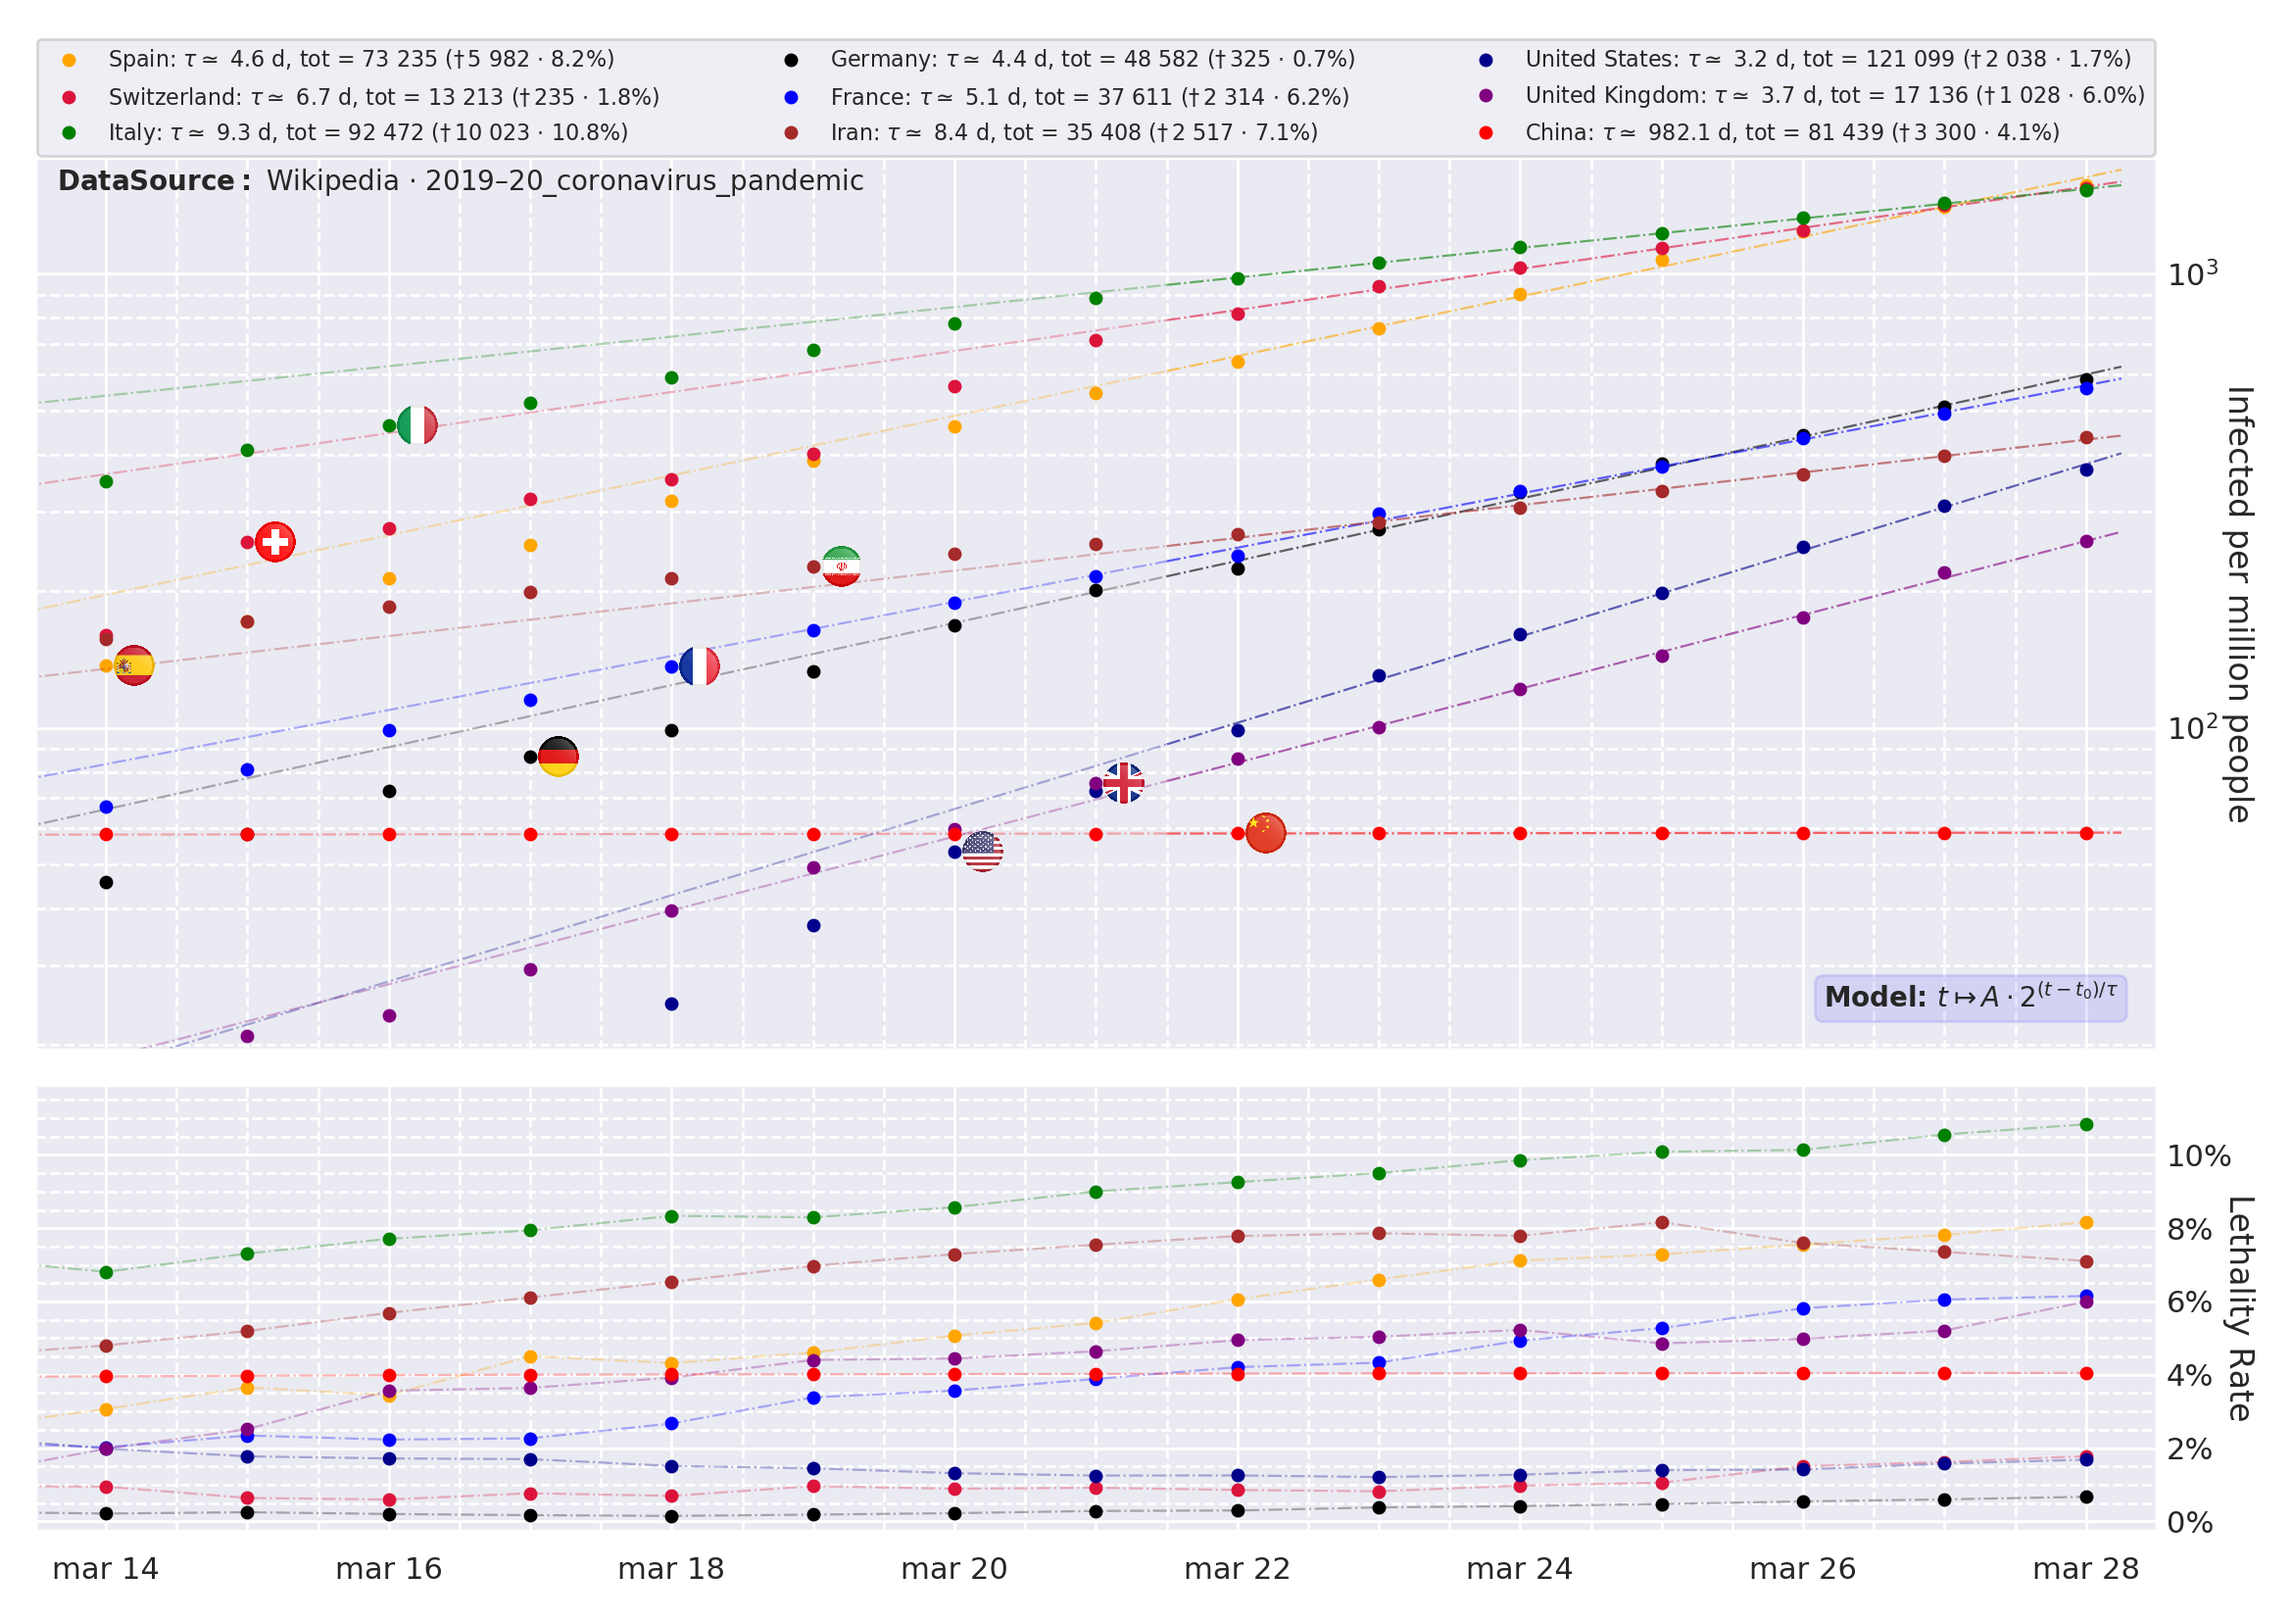
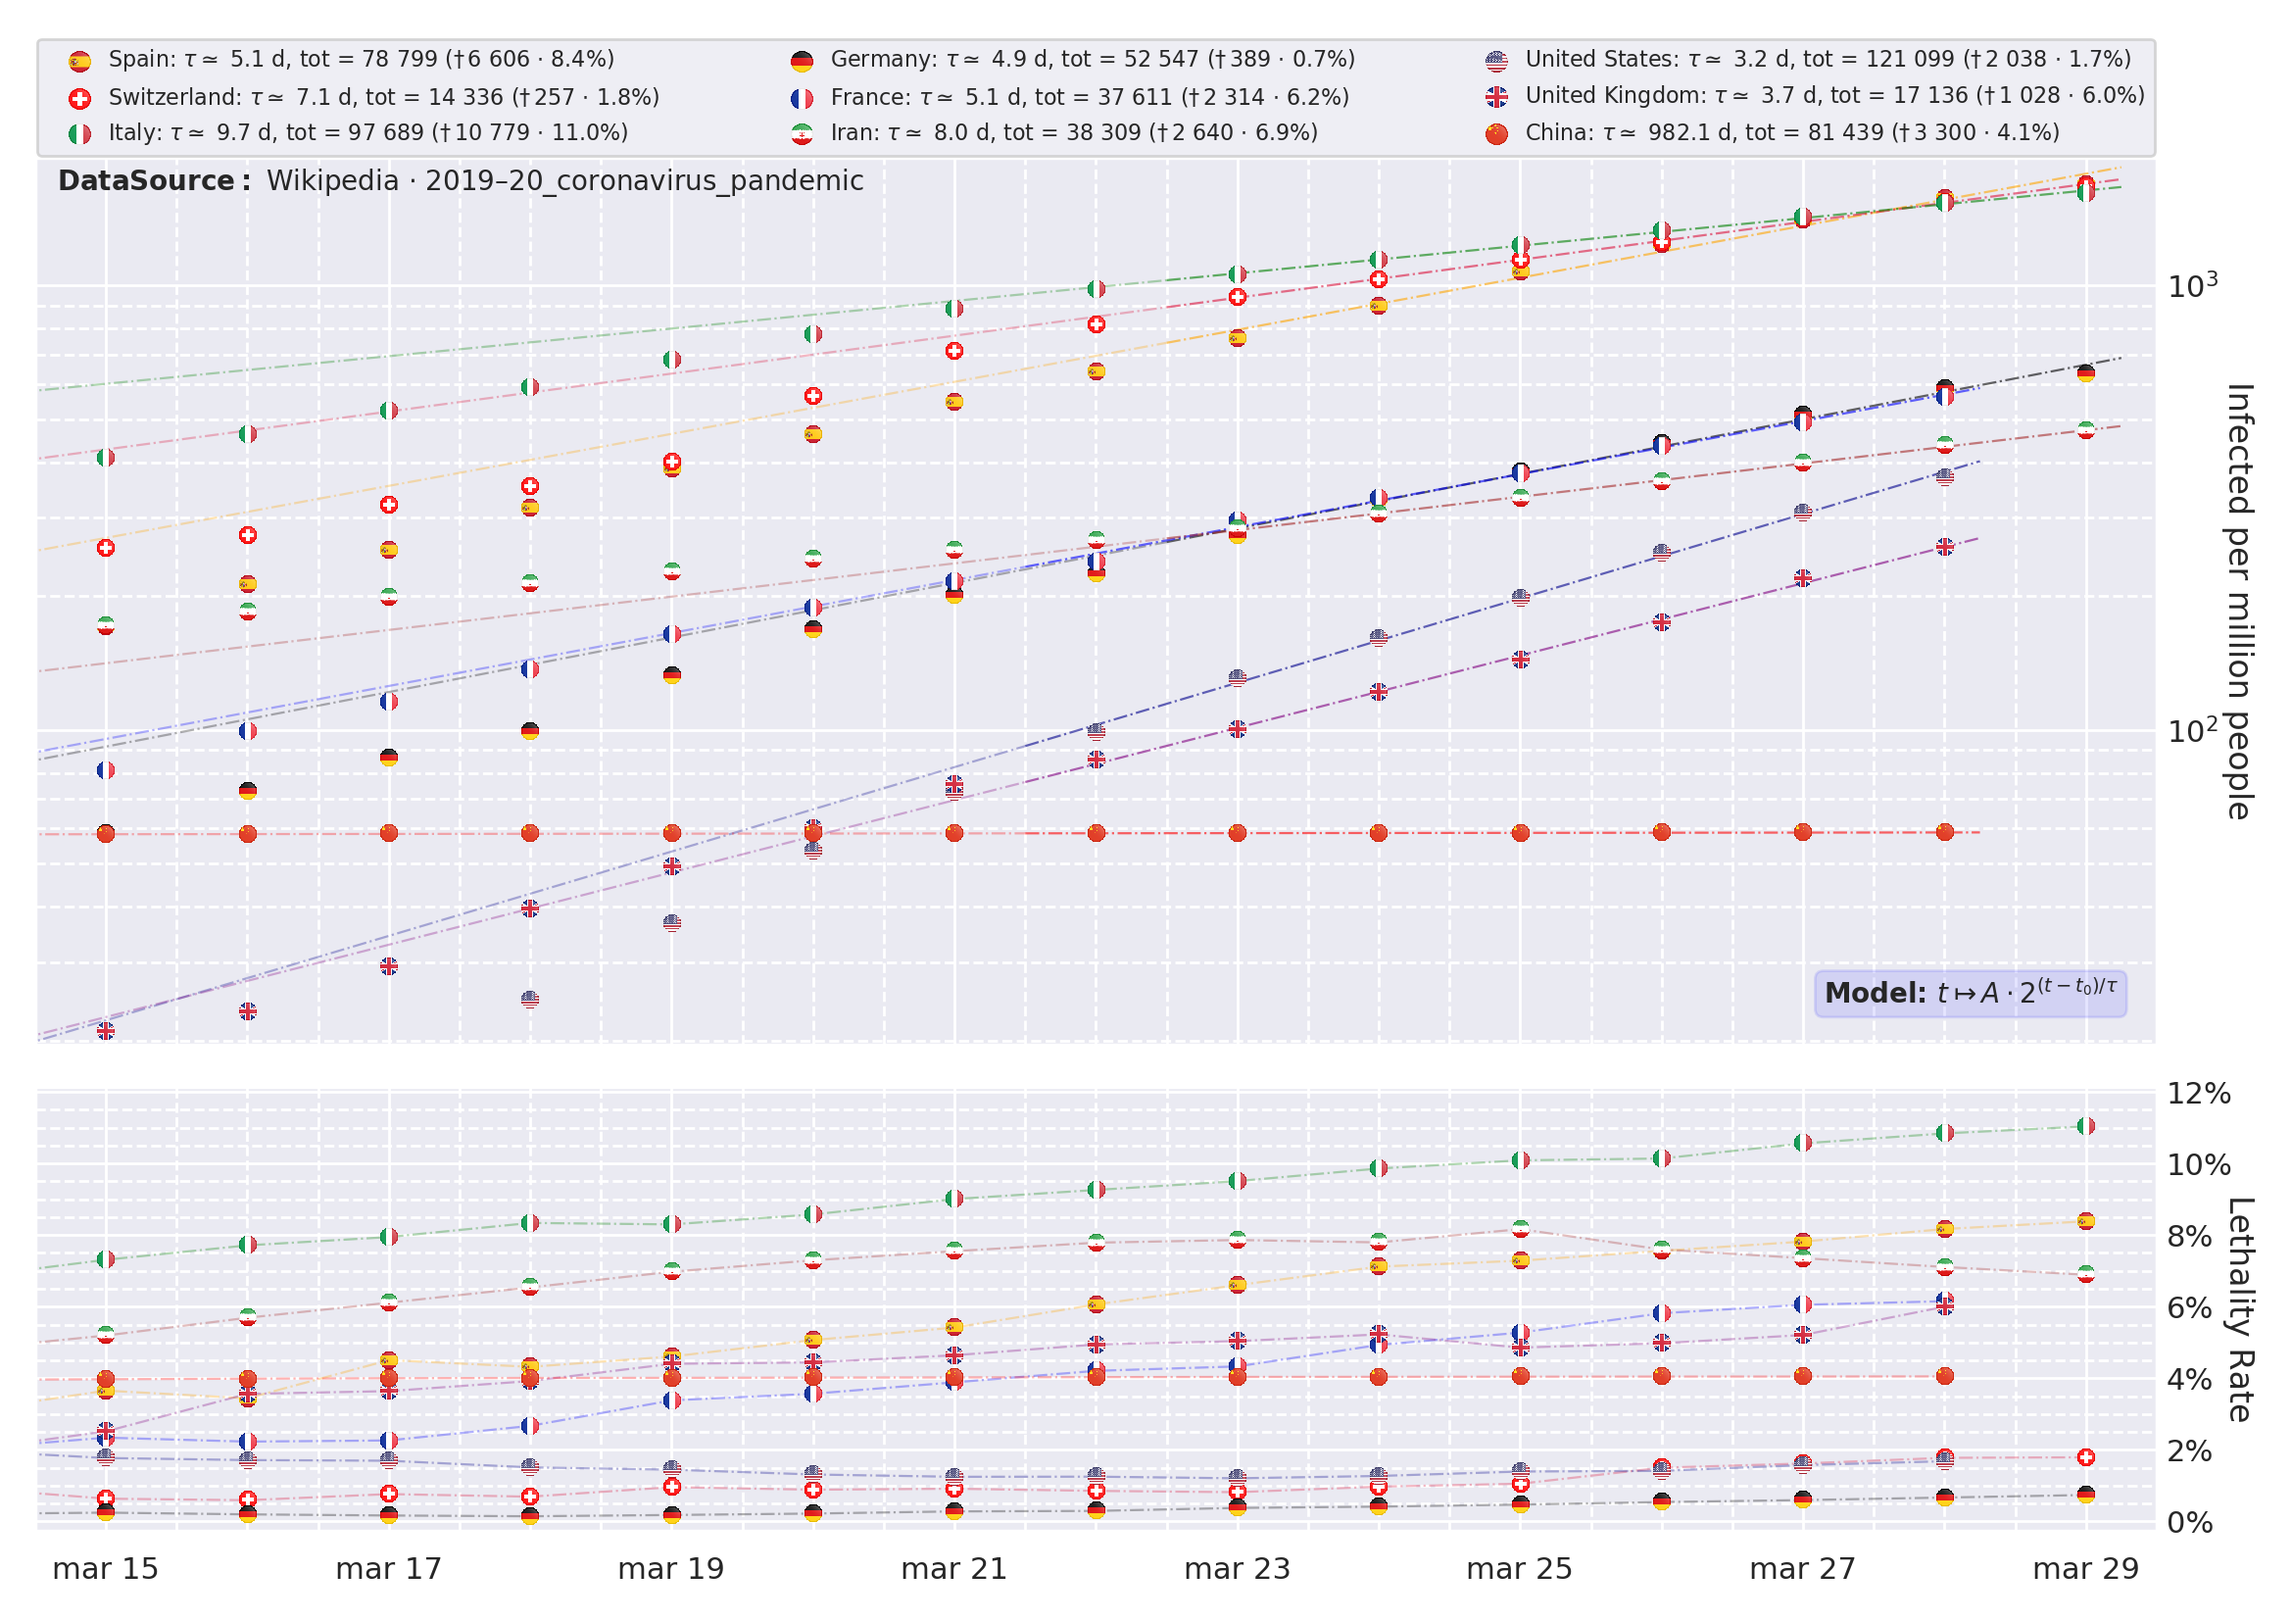
minor commit

diff --git a/Coronavirus/coronavirus.py b/Coronavirus/coronavirus.py
@@ -12,7 +12,8 @@ from corona_libs import *
 sns.set()
 register_matplotlib_converters()
 
-flags = True
+# Flags has 3 modes: 0 no flags, 1 representative flags, 2 flags markers
+flags = 2
 
 country_ds = pd.DataFrame(
     columns=["name", "population", "filename", "flagname", "date_format",
@@ -71,6 +72,9 @@ f.subplots_adjust(hspace=0)
 
 model = LinearRegression(fit_intercept=True)
 init_time = 0
+plots = []
+handlers = {}
+labels = []
 for idx, name in enumerate(country_ds.index):
     kwargs = {"delimiter": ";", "index_col": "data", "parse_dates": True}
     if country_ds["date_format"].loc[name] is not None:
@@ -98,22 +102,33 @@ for idx, name in enumerate(country_ds.index):
         spacing(country_ds["tot_death"].loc[name]),
         country_ds["lethality"].loc[name]
     )
+    labels.append(label)
 
-    ax1.plot(df.index, df["density"].values, ".",
-             color=country_ds["color"].loc[name], label=label, markersize=8)
+    plot = ax1.plot(df.index, df["density"].values, ".", markersize=8,
+                    color=country_ds["color"].loc[name], label=label)
     ax1.plot(d1, 2**(model.predict(t1[:, np.newaxis])), "-.", alpha=0.6,
              color=country_ds["color"].loc[name], linewidth=0.8)
     ax1.plot(d2, 2**(model.predict(t2[:, np.newaxis])), "-.", alpha=0.3,
              color=country_ds["color"].loc[name], linewidth=0.8)
 
     flagname = country_ds["flagname"].loc[name]
-    if init_time == 0:
-        init_time = t[-15]
-
-    if flags is True and os.path.isfile("flags/" + flagname):
-        flagIdx = np.where(t == init_time)[0][0]
-        plot_images([t[flagIdx + idx]], [df["density"].values[flagIdx + idx]],
-                    "flags/" + flagname, xshift=0.2, scale=6, ax=ax1)
+    if flags == 1:
+        if init_time == 0:
+            init_time = t[-15]
+        if os.path.isfile("flags/" + flagname):
+            flagIdx = np.where(t == init_time)[0][0]
+            plot_images([t[flagIdx + idx]],
+                        [df["density"].values[flagIdx + idx]],
+                        "flags/" + flagname, xshift=0.2, scale=6, ax=ax1)
+    elif flags == 2:
+        custom_handler = ImageHandler()
+        custom_handler.set_image("flags/" + flagname, image_stretch=(-8, 2))
+        plots.append(plot[0])
+        handlers[plot[0]] = custom_handler
+        plot_images(t[-15:], df["density"].values[-15:],
+                    "flags/" + flagname, scale=2.6, ax=ax1)
+        plot_images(t[-15:], df["lethality"].values[-15:],
+                    "flags/" + flagname, scale=2.6, ax=ax2)
 
     df["death"].fillna(0, inplace=True)
     ax2.plot(df.index, df["lethality"].values, ".",
@@ -160,8 +175,14 @@ ax2.yaxis.tick_right()
 ax2.tick_params(axis="y", which="both", length=0)
 ax2.yaxis.set_label_position("right")
 
-ax1.legend(loc="lower left", fontsize=8, ncol=3,
-           bbox_to_anchor=(-0.004, 0.99, 1.008, 0.), mode="expand")
+if flags != 2:
+    ax1.legend(loc="lower left", fontsize=8, ncol=3,
+               bbox_to_anchor=(-0.004, 0.99, 1.008, 0.), mode="expand")
+else:
+    ax1.legend(plots, labels, handler_map=handlers, loc="lower left",
+               fontsize=8, ncol=3, bbox_to_anchor=(-0.004, 0.99, 1.008, 0.),
+               mode="expand")
+
 ax1.grid(b=True, which="major", linestyle="-")
 ax1.grid(b=True, which="minor", linestyle="--")
 ax2.grid(b=True, which="major", linestyle="-")

diff --git a/Coronavirus/corona_libs.py b/Coronavirus/corona_libs.py
@@ -1,7 +1,12 @@
+import os.path
 import numpy as np
 import matplotlib.image as image
 import matplotlib.pyplot as plt
-from matplotlib.offsetbox import OffsetImage, AnnotationBbox
+from matplotlib.offsetbox import OffsetImage, AnnotationBbox, Bbox
+from matplotlib.transforms import TransformedBbox
+from matplotlib.image import BboxImage
+from matplotlib.legend_handler import HandlerBase
+from matplotlib._png import read_png
 
 
 def spacing(n):
@@ -14,7 +19,7 @@ def plot_images(x, y, flagname, scale=4, xshift=0, ax=None):
     image = plt.imread(flagname)
     img = []
     for i in range(image.shape[-1]):
-        img.append(np.pad(image[:, :, i], ((7, 7), (7, 7))))
+        img.append(np.pad(image[:, :, i], ((10, 10), (10, 10))))
     image = np.swapaxes(np.swapaxes(np.array(img), 0, 1), 1, 2)
 
     for xi, yi in zip(x, y):
@@ -45,3 +50,36 @@ def plot_images2(xi, yi, flagname, scale=.04, xshift=.0135, ax=None):
                       flagCoord[1] - scale/2,
                       flagCoord[1] + scale/2))
     return None
+
+
+# stackoverflow.com/questions/26029592/insert-image-in-matplotlib-legend
+class ImageHandler(HandlerBase):
+    def create_artists(self, legend, orig_handle,
+                       xdescent, ydescent, width, height, fontsize,
+                       trans):
+
+        # enlarge the image by these margins
+        sx, sy = self.image_stretch
+
+        # create a bounding box to house the image
+        bb = Bbox.from_bounds(xdescent - sx,
+                              ydescent - sy,
+                              width + sx,
+                              height + sy)
+
+        tbb = TransformedBbox(bb, trans)
+        image = BboxImage(tbb)
+        image.set_data(self.image_data)
+
+        self.update_prop(image, orig_handle, legend)
+
+        return [image]
+
+    def set_image(self, image_path, image_stretch=(0, 0)):
+        if not os.path.exists(image_path):
+            sample = get_sample_data("grace_hopper.png", asfileobj=False)
+            self.image_data = read_png(sample)
+        else:
+            self.image_data = read_png(image_path)
+
+        self.image_stretch = image_stretch
